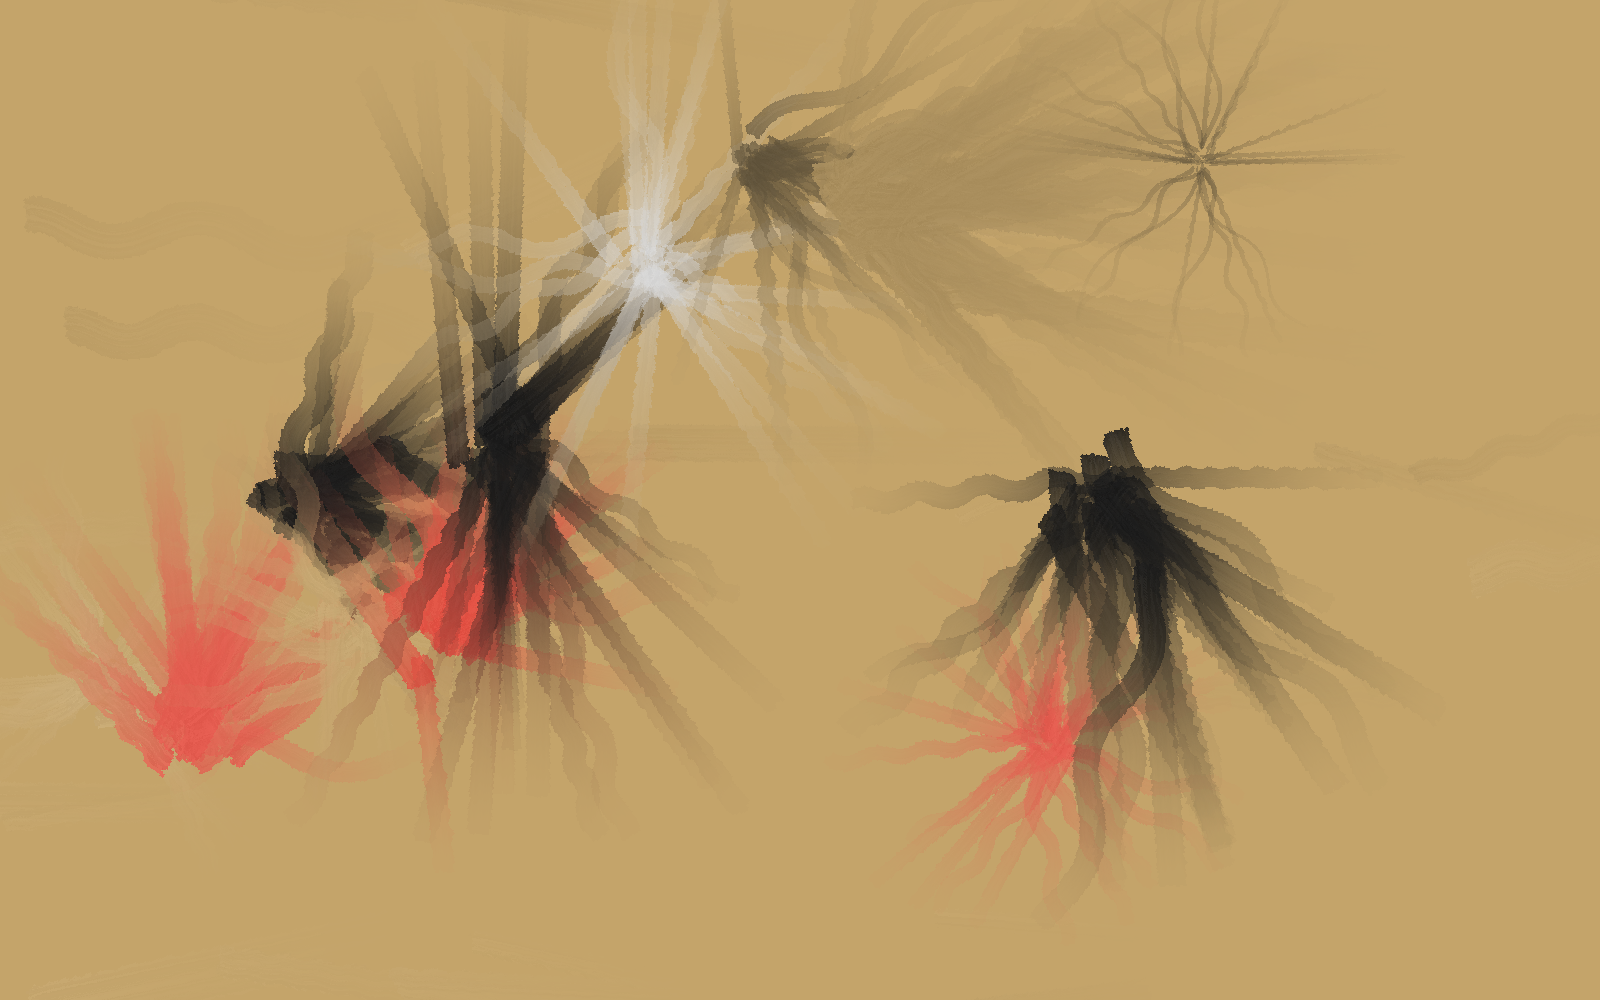
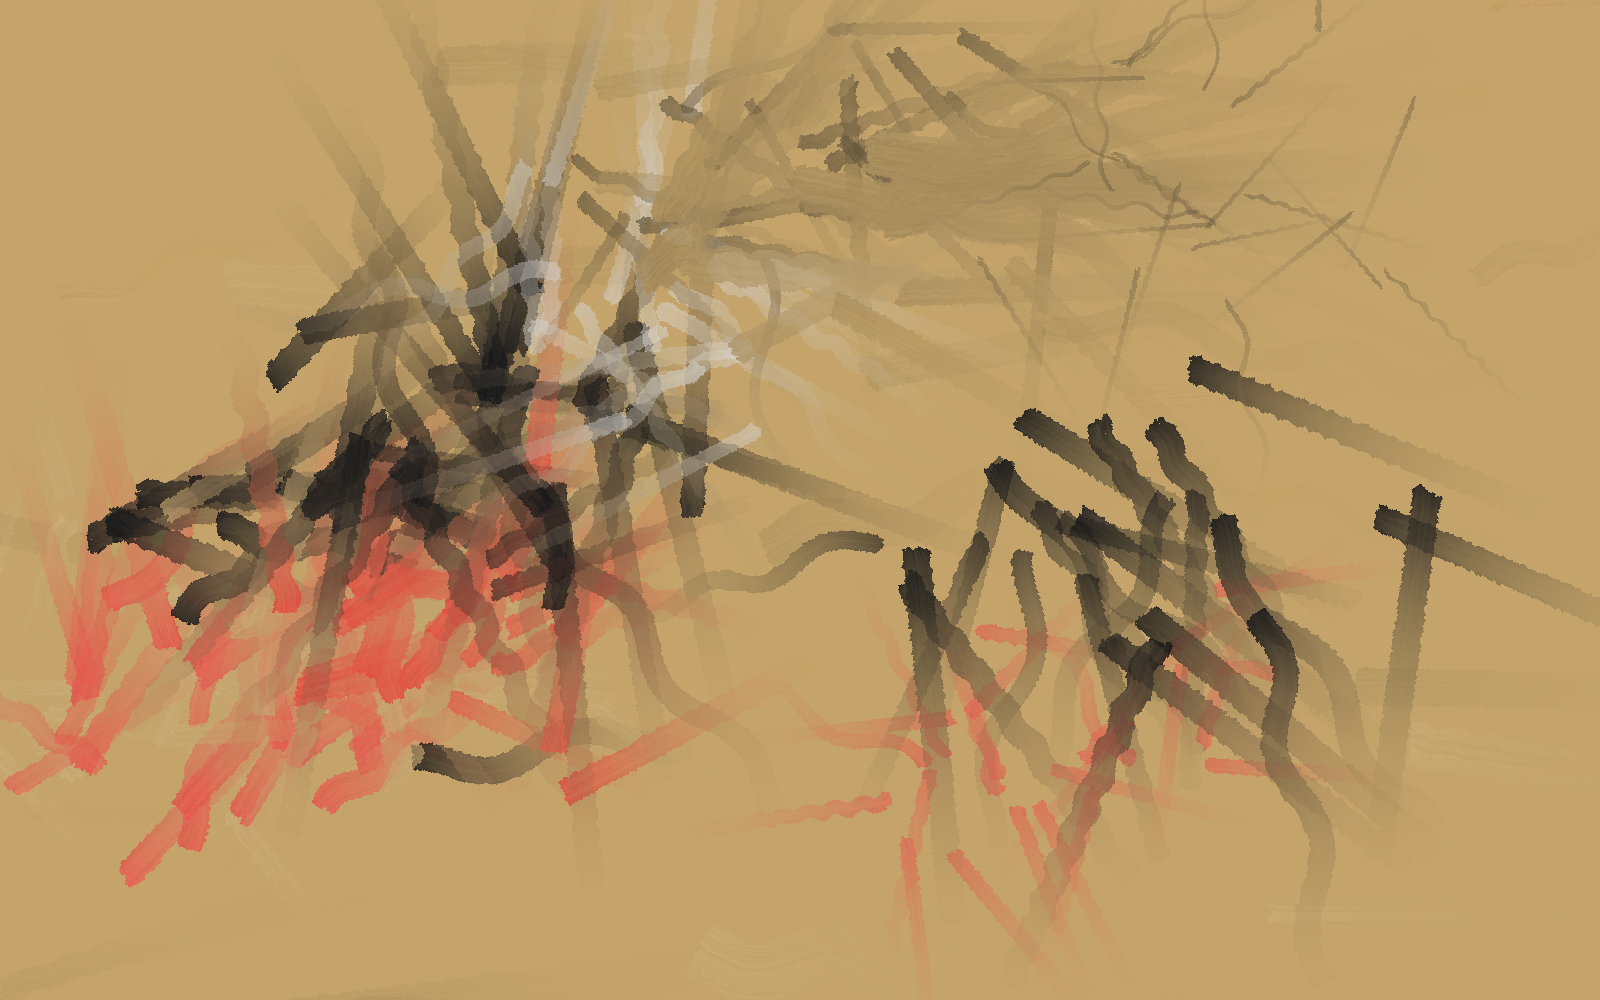
Fix v3 composition: directional flow instead of radial spider pattern
Problems in previous output:
  - Strokes exploded radially from each note center (spider/sunburst look)
    because fan(center=None, spread=pi) randomly picked all directions.
  - Starting positions clustered within ±20px of note center (size*1.2
    where size~17px) → isolated blobs with empty canvas between them.
  - Ground layer alpha too low (0.42-0.58 at velocity 'mf') → barely visible.

Fixes:
  - Replaced fan() with directed(primary_ang, spread) helper: each technique
    has a PRIMARY direction and a GAUSSIAN spread (not full 2π random).
    staccato→0°±90°, legato→toward next note±30°, slide→-20°±36°,
    bend→-65°±36°, vibrato→two groups at ±88°, hammer_on→0°±60°,
    powerchord→0°±22°, dive→72°±36°.
  - Tapping/harmonic_natural/harmonic_artificial keep burst() (radial),
    appropriate for their visual meaning (ripples, halos, spikes).
  - Spatial jitter: from gauss(0, size*1.2)≈±20px to gauss(0,110)/gauss(0,75)
    → traces start across a 220px×150px zone → natural overlap between notes.
  - Ground layer: 46 strokes (was 36), alpha_scale 0.50-0.70 (was 0.42-0.58),
    velocity 'f' (was 'mf'), n_steps 200-320 (was 180-280).
    Added ochre+vermilion variant for warmer canvas texture.

https://claude.ai/code/session_01YHYaY3hzsgVUD5dcHi8sfs

diff --git a/zorn_riff_art_v3.py b/zorn_riff_art_v3.py
@@ -350,25 +350,22 @@ class ZornRiffBristlePainting:
         Imprimitura: 36 pennellate orizzontali di varianti ochre a media alpha.
         Crea la textura di base della tela preparata.
         """
+        # (color_tuple, n_strokes, size_lo, size_hi, alpha_scale, ang_sigma)
         configs = [
-            # (t_white, t_black, n_strokes, size_lo, size_hi, alpha_scale)
-            (0.06, 0.00, 12, 22, 50, 0.58),   # ochre chiara
-            (0.00, 0.10, 12, 16, 36, 0.52),   # ochre scura
-            (0.03, 0.03, 12, 12, 26, 0.42),   # ochre media
+            (zorn_blend(ZORN['ochre'], ZORN['white'],     0.08), 14, 24, 55, 0.70, 0.15),
+            (zorn_blend(ZORN['ochre'], ZORN['black'],     0.12), 14, 18, 40, 0.65, 0.18),
+            (zorn_blend(ZORN['ochre'], ZORN['vermilion'], 0.06), 10, 14, 32, 0.55, 0.20),
+            (zorn_blend(ZORN['ochre'], ZORN['black'],     0.06),  8, 10, 22, 0.50, 0.25),
         ]
-        for t_w, t_b, n, sz_lo, sz_hi, a_sc in configs:
-            base = ZORN['ochre']
-            col  = zorn_blend(base, ZORN['white'], t_w) if t_w > 0 \
-                else zorn_blend(base, ZORN['black'], t_b)
+        for col, n, sz_lo, sz_hi, a_sc, ang_sig in configs:
             for _ in range(n):
-                x    = random.uniform(-100, self.W + 100)
-                y    = random.uniform(-100, self.H + 100)
-                ang  = random.gauss(0, 0.14)
+                x    = random.uniform(-120, self.W + 120)
+                y    = random.uniform(-120, self.H + 120)
+                ang  = random.gauss(0, ang_sig)
                 size = random.uniform(sz_lo, sz_hi)
-                # n_steps grande: pennellate lunghe per coprire canvas
-                n_st = max(100, int(random.uniform(180, 280)))
+                n_st = max(120, int(random.uniform(200, 320)))
                 self._paint_one(np.array([x, y], dtype=float),
-                                size, n_st, col, 'mf',
+                                size, n_st, col, 'f',
                                 ang=ang, alpha_scale=a_sc)
 
     # ── mapping tecnica → elenco pennellate ───────────────────────────────
@@ -394,79 +391,77 @@ class ZornRiffBristlePainting:
         else:
             ang_next = 0.0
 
-        # Helper per generare n tracce in ventaglio attorno a center_ang
-        def fan(n: int, center: Optional[float], spread: float,
-                sm: float = 1.0, asc: float = 1.0, steps_mult: float = 1.0):
-            result = []
-            for _ in range(n):
-                a = (center + random.gauss(0, spread)) if center is not None \
-                    else random.uniform(0, 2 * math.pi)
-                result.append((max(80, int(n_st * steps_mult)), a, sm, asc))
-            return result
+        # ── helpers ───────────────────────────────────────────────────────
+        def directed(n: int, primary: float, spread: float,
+                     sm: float = 1.0, asc: float = 1.0, st_mult: float = 1.0):
+            """N tracce che scorrono nella direzione primary ± spread gaussiano.
+            Produce FLOW direzionale (non esplosione radiale)."""
+            return [(max(80, int(n_st * st_mult)),
+                     primary + random.gauss(0, spread),
+                     sm, asc)
+                    for _ in range(n)]
+
+        def burst(n_per_ray: int, angles_deg: List[float],
+                  sm: float = 0.5, asc: float = 0.75, st_mult: float = 0.45):
+            """Burst radiale per tecniche a irradiazione (tapping, harmonics)."""
+            return [t for a in angles_deg
+                    for t in directed(n_per_ray, math.radians(a),
+                                      math.pi / 12, sm, asc, st_mult)]
 
         # ── tecniche ──────────────────────────────────────────────────────
         if tech == 'staccato':
-            # Colpi brevi radiali: pennellate corte in tutte le direzioni
-            return fan(20, None, math.pi, 0.9, 0.90, 0.55)
+            # Colpi brevi, direzione prevalentemente in avanti con ampio spread
+            return directed(22, 0.0, math.pi / 2, 0.9, 0.88, 0.52)
 
         elif tech == 'legato':
-            # Pennellate lunghe verso la nota successiva
-            return (fan(14, ang_next, math.pi / 5, 1.0, 1.0, 1.0)
-                    + fan(8,  ang_next, math.pi / 3, 0.7, 0.75, 0.7))
+            # Scorrono verso la nota successiva (direzione musicale)
+            return (directed(15, ang_next, math.pi / 6, 1.0, 1.00)
+                    + directed(9, ang_next, math.pi / 4, 0.7, 0.75, 0.75))
 
         elif tech == 'slide':
-            # Diagonale ascendente ~20°, ventaglio stretto
-            ang_slide = math.radians(-20)
-            return (fan(15, ang_slide, math.pi / 6, 1.0, 1.0, 1.0)
-                    + fan(8,  ang_slide, math.pi / 4, 0.7, 0.70, 0.7))
+            # Diagonale ~-20° (pennellata che "scivola" in salita)
+            return directed(23, math.radians(-20), math.pi / 6, 1.0, 1.00)
 
         elif tech == 'bend':
-            # Curvatura verso l'alto, ventaglio moderato
-            return (fan(12, math.radians(-70), math.pi / 5, 1.0, 1.0, 1.0)
-                    + fan(10, math.radians(-55), math.pi / 3, 0.7, 0.80, 0.8))
+            # Prevalentemente verso l'alto (corda "tirata")
+            return (directed(14, math.radians(-65), math.pi / 5, 1.0, 1.00)
+                    + directed(9,  math.radians(-45), math.pi / 4, 0.7, 0.80, 0.8))
 
         elif tech == 'vibrato':
-            # Oscillazione: ventaglio ampio ± orizzontale
-            return (fan(10, math.radians(85),  math.pi / 6, 0.8, 0.90, 1.0)
-                    + fan(10, math.radians(-85), math.pi / 6, 0.8, 0.90, 1.0)
-                    + fan(8,  math.radians(80),  math.pi / 5, 0.6, 0.65, 0.7))
+            # Due flussi opposti che si scontrano (oscillazione)
+            return (directed(12, math.radians(88),  math.pi / 6, 0.85, 0.90)
+                    + directed(12, math.radians(-88), math.pi / 6, 0.85, 0.90)
+                    + directed(6,  0.0,               math.pi / 4, 0.60, 0.65, 0.7))
 
         elif tech == 'hammer_on':
-            # Due burst ravvicinati
-            return (fan(13, None, math.pi / 2, 1.0, 1.0, 0.6)
-                    + fan(10, None, math.pi / 2, 0.7, 0.80, 0.5))
+            # Flusso rightward con spread moderato (colpo in avanti)
+            return directed(24, 0.0, math.pi / 3, 1.0, 0.90, 0.58)
 
         elif tech == 'powerchord':
-            # Tre strati orizzontali molto larghi (accordo potente)
-            return (fan(12, math.radians(0), math.pi / 8, 1.3, 1.0, 1.1)
-                    + fan(10, math.radians(0), math.pi / 6, 1.0, 0.80, 1.0)
-                    + fan(8,  math.radians(0), math.pi / 5, 0.8, 0.60, 0.8))
+            # Tre strati orizzontali (accordo largo e piatto)
+            return (directed(13, 0.0, math.pi / 8, 1.3, 1.00, 1.10)
+                    + directed(10, 0.0, math.pi / 6, 1.0, 0.82, 1.00)
+                    + directed(8,  0.0, math.pi / 5, 0.8, 0.62, 0.90))
 
         elif tech == 'tapping':
-            # Raggi radiali a 6 direzioni, brevi
-            return [t for ang in [0, 60, 120, 180, 240, 300]
-                    for t in fan(4, math.radians(ang), math.pi / 8,
-                                 0.65, 0.85, 0.45)]
+            # Burst radiale breve (le dita che picchiano → anelli di luce)
+            return burst(4, [0, 60, 120, 180, 240, 300], 0.62, 0.82, 0.44)
 
         elif tech == 'dive':
-            # Discendente con ventaglio verso il basso
-            return (fan(14, math.radians(75), math.pi / 5, 1.0, 1.0, 1.1)
-                    + fan(10, math.radians(80), math.pi / 4, 0.7, 0.70, 0.8))
+            # Flusso verso il basso (whammy bar che affonda)
+            return (directed(15, math.radians(72), math.pi / 5, 1.0, 1.00, 1.1)
+                    + directed(10, math.radians(80), math.pi / 4, 0.7, 0.70, 0.9))
 
         elif tech == 'harmonic_natural':
-            # Tre raggi leggeri ed eterei
-            return [t for ang in [30, 150, 270]
-                    for t in fan(8, math.radians(ang), math.pi / 5,
-                                 0.55, 0.60, 1.0)]
+            # Tre raggi eterei a 120° (alone radiale leggero)
+            return burst(8, [30, 150, 270], 0.55, 0.58, 1.0)
 
         elif tech == 'harmonic_artificial':
-            # 6 scintille radiali brevi e affilate
-            return [t for ang in [0, 60, 120, 180, 240, 300]
-                    for t in fan(4, math.radians(ang), math.pi / 10,
-                                 0.45, 0.80, 0.40)]
+            # 8 scintille radiali brevi (pinch harmonic aggressivo)
+            return burst(3, [0, 45, 90, 135, 180, 225, 270, 315], 0.45, 0.78, 0.40)
 
         else:
-            return fan(22, None, math.pi / 2, 1.0, 1.0, 1.0)
+            return directed(22, 0.0, math.pi / 3, 1.0, 1.0)
 
     # ── riff painting ─────────────────────────────────────────────────────
     def paint_riff(self, notes: List[Dict]):
@@ -480,10 +475,11 @@ class ZornRiffBristlePainting:
                   f"  {len(traces)} tracce × ~{traces[0][0]} step")
 
             for n_steps, ang, sm, asc in traces:
-                size   = base_sz * sm
-                # Spread spaziale dal centro della nota (proporzionale alla size)
-                jitter = np.array([random.gauss(0, size * 1.2),
-                                   random.gauss(0, size * 1.2)])
+                size = base_sz * sm
+                # Spread ampio: le tracce partono da una zona attorno al centro,
+                # non tutte dallo stesso punto → no pattern a ragno
+                jitter = np.array([random.gauss(0, 110),   # ±110 px orizzontale
+                                   random.gauss(0, 75)])    # ±75 px verticale
                 self._paint_one(center + jitter, size, n_steps,
                                 color, note['velocity'],
                                 ang=ang, alpha_scale=asc)